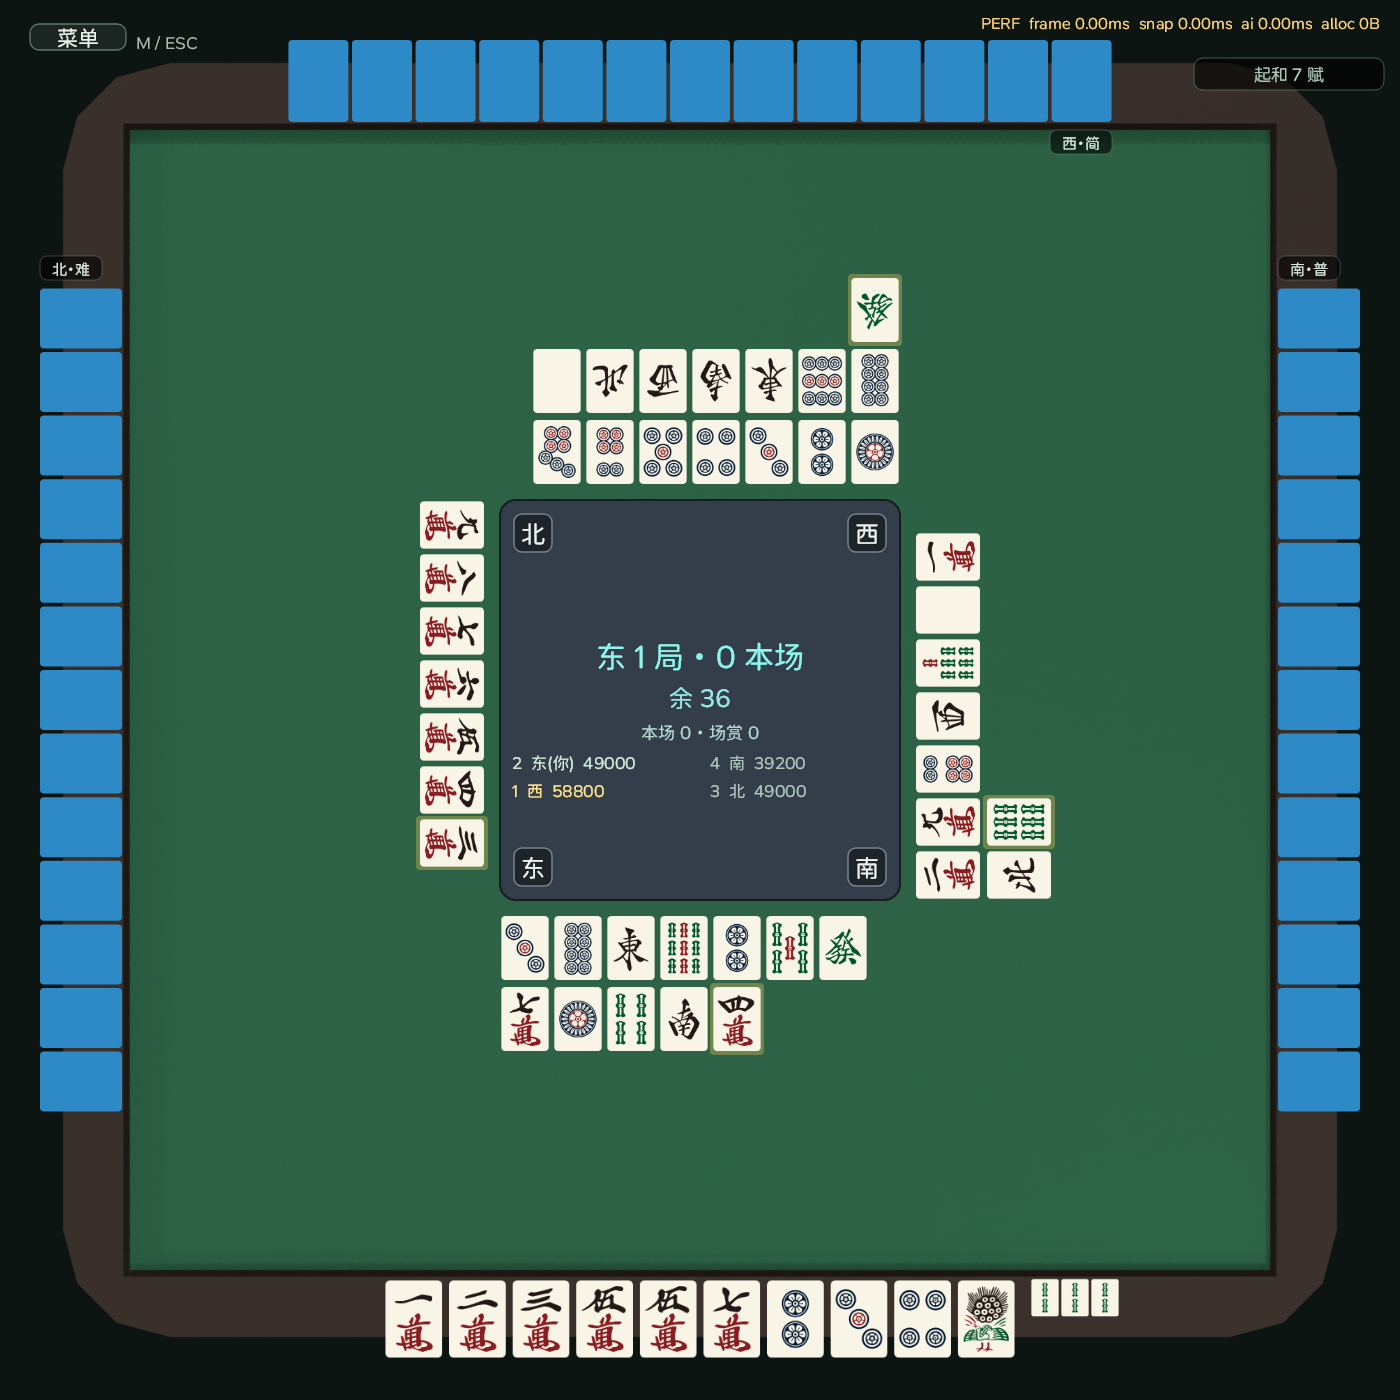
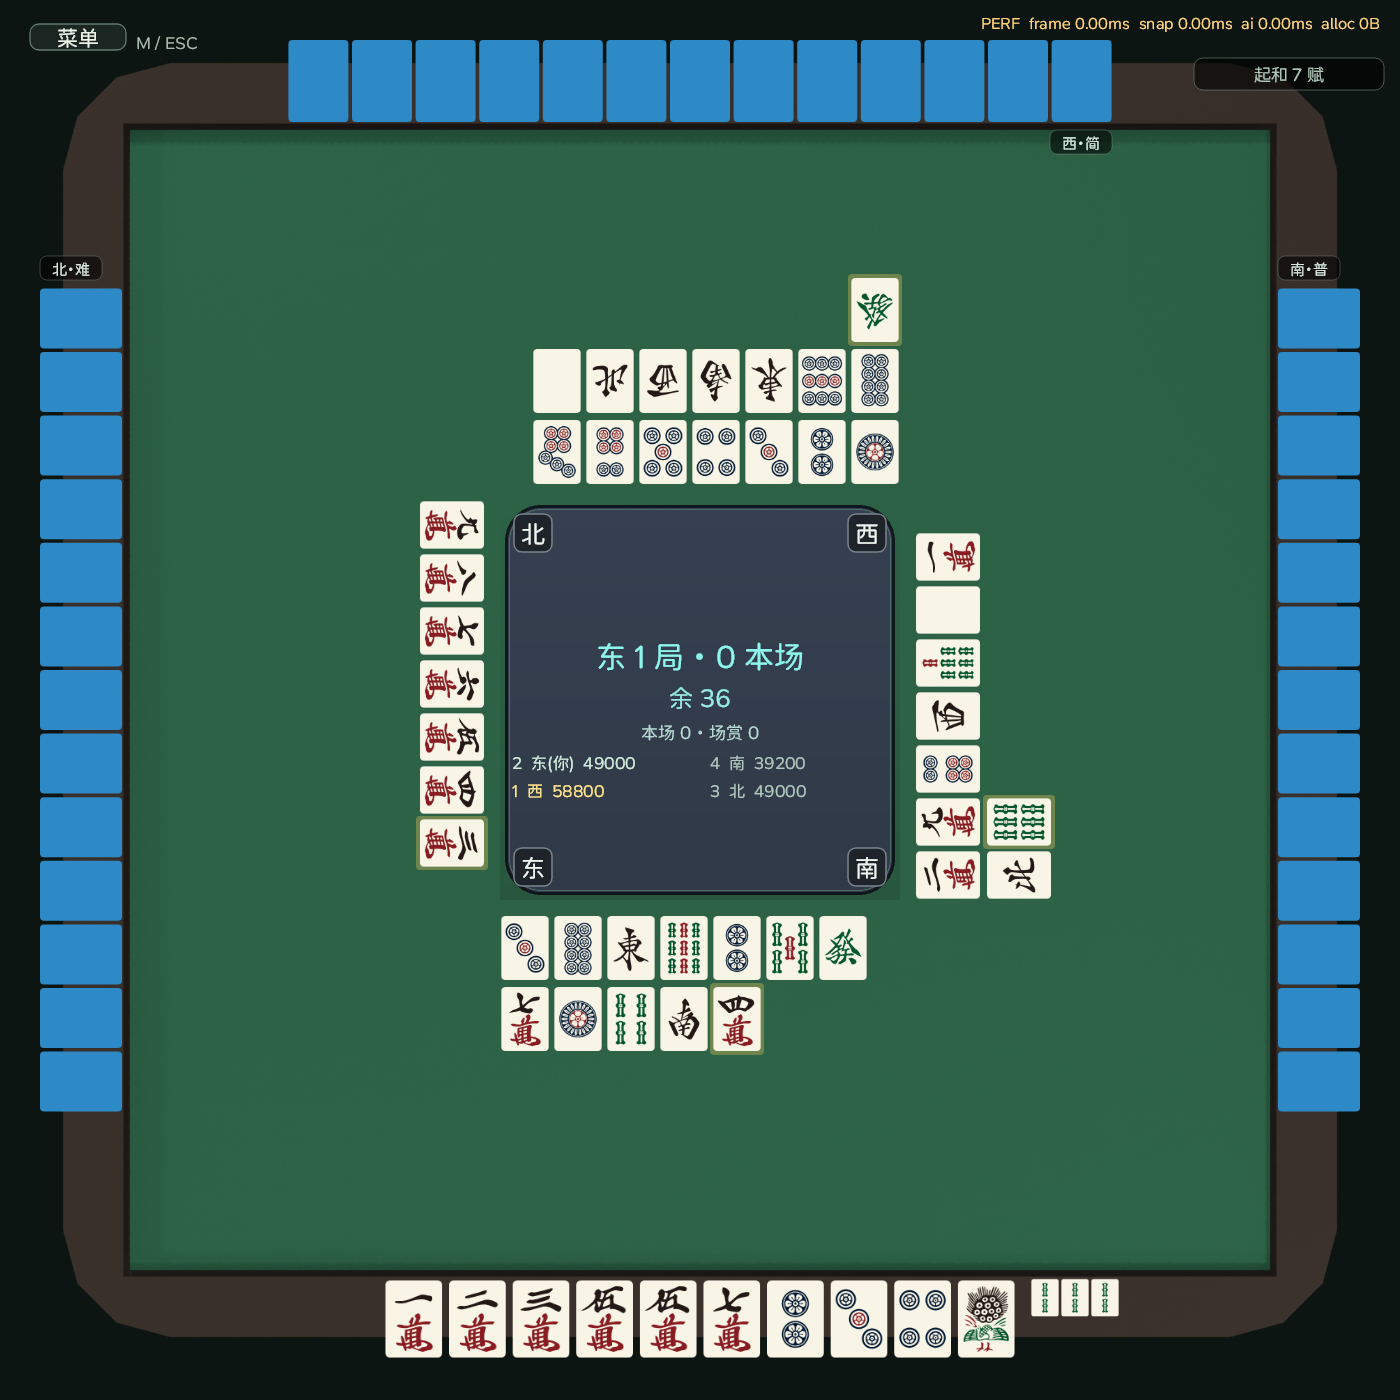
Polish baked table skin and add regression tests
- table + center-plate baked regions, preview updated
- drop shadow/frame regions: CPU bench 4.64 vs 4.93 ms
- TableSkin load/fallback tests; snapshot geometry guard

By DSH

Changed region(s): [[0.3379, 0.3379, 0.645, 0.645]]

diff --git a/tests/Tiisu.App.Tests/TableSkinTests.cs b/tests/Tiisu.App.Tests/TableSkinTests.cs
@@ -1,0 +1,95 @@
+using System;
+using System.IO;
+using System.Linq;
+using Tiisu.App.Table;
+using Xunit;
+
+namespace Tiisu.App.Tests;
+
+public sealed class TableSkinTests
+{
+    private static string RepoRoot()
+    {
+        DirectoryInfo? dir = new DirectoryInfo(AppContext.BaseDirectory);
+        while (dir is not null && !File.Exists(Path.Combine(dir.FullName, "Tiisu.slnx")))
+        {
+            dir = dir.Parent;
+        }
+
+        return dir?.FullName ?? throw new InvalidOperationException("repo root not found");
+    }
+
+    [Fact]
+    public void Blender_skin_manifest_loads_and_maps_regions()
+    {
+        string path = Path.Combine(RepoRoot(), "art", "table", "skin-blender", "skin.json");
+
+        using TableSkin? skin = TableSkin.Load(path, out string? error);
+
+        Assert.Null(error);
+        Assert.NotNull(skin);
+        Assert.True(skin!.IsActive);
+        Assert.True(skin.Has(TableSkinRegion.Table));
+        Assert.True(skin.Has(TableSkinRegion.CenterPlate));
+        Assert.Equal(2, skin.RegionCount);
+
+        Assert.True(skin.TryGetRegionSize(TableSkinRegion.CenterPlate, out float centerW, out float centerH));
+        Assert.Equal(400f, centerW, 1);
+        Assert.Equal(400f, centerH, 1);
+    }
+
+    [Fact]
+    public void Missing_manifest_returns_null_and_error()
+    {
+        using TableSkin? skin = TableSkin.Load(
+            Path.Combine(RepoRoot(), "art", "table", "skin-blender", "no-such-skin.json"),
+            out string? error);
+
+        Assert.Null(skin);
+        Assert.False(string.IsNullOrWhiteSpace(error));
+    }
+
+    [Fact]
+    public void Newer_manifest_version_is_rejected()
+    {
+        string dir = Path.Combine(Path.GetTempPath(), "tiisu-skin-tests", Guid.NewGuid().ToString("N"));
+        Directory.CreateDirectory(dir);
+        string path = Path.Combine(dir, "skin.json");
+        try
+        {
+            File.WriteAllText(path, "{\"version\":999,\"regions\":{\"table\":{\"src\":[0,0,1,1]}}}");
+            using TableSkin? skin = TableSkin.Load(path, out string? error);
+
+            Assert.Null(skin);
+            Assert.False(string.IsNullOrWhiteSpace(error));
+        }
+        finally
+        {
+            try
+            {
+                Directory.Delete(dir, recursive: true);
+            }
+            catch
+            {
+                // 测试清理失败不影响结果。
+            }
+        }
+    }
+
+    [Fact]
+    public void Snapshot_types_have_no_geometry_fields()
+    {
+        string[] forbidden = { "vertex", "triangle", "mesh", "matrix", "transform" };
+        var properties = typeof(TableViewModel).GetProperties()
+            .Concat(typeof(SeatView).GetProperties());
+
+        foreach (var property in properties)
+        {
+            foreach (string word in forbidden)
+            {
+                Assert.DoesNotContain(word, property.Name, StringComparison.OrdinalIgnoreCase);
+                Assert.DoesNotContain(word, property.PropertyType.Name, StringComparison.OrdinalIgnoreCase);
+            }
+        }
+    }
+}

diff --git a/art/table/skin-blender/make_ui_panels.py b/art/table/skin-blender/make_ui_panels.py
@@ -1,0 +1,22 @@
+from PIL import Image, ImageDraw
+import os
+
+out = os.path.dirname(os.path.abspath(__file__))
+
+# 中央信息板底板：2x 交付，400x400 逻辑。
+# 文字、点数、余牌仍由代码逐帧绘制，这里只做底板。
+w = h = 800
+img = Image.new("RGBA", (w, h), (0, 0, 0, 0))
+d = ImageDraw.Draw(img)
+d.rounded_rectangle((10, 10, w - 11, h - 11), radius=72,
+                    fill=(54, 64, 80, 255), outline=(18, 23, 30, 255), width=6)
+d.rounded_rectangle((18, 18, w - 19, h - 19), radius=64,
+                    outline=(105, 120, 138, 120), width=2)
+# 底部轻微压暗，避免整块纯色。
+shade = Image.new("RGBA", (w, h), (0, 0, 0, 0))
+sd = ImageDraw.Draw(shade)
+for y in range(h):
+    sd.line((0, y, w, y), fill=(0, 0, 0, int(28 * (y / (h - 1)))))
+img = Image.alpha_composite(img, shade)
+img.save(os.path.join(out, "center-plate.png"))
+print("center-plate.png written")

diff --git a/art/table/skin-blender/README.md b/art/table/skin-blender/README.md
@@ -8,14 +8,17 @@
 |---|---|
 | `Assets/Table.blend` | 牌桌源文件（木框 + 绿呢），可继续在 Blender 里改 |
 | `make_table_skin.py` | 顶视正交相机渲染 2048×2048 透明底 `table.png` |
-| `table.png` | 皮肤图集：`table` 区域整图 |
-| `skin.json` | 皮肤清单，`scale = 1.5` |
+| `make_ui_panels.py` | 用 Pillow 生成中央板底板（纯 2D） |
+| `table.png` | 桌面整图，`scale = 1.4971` |
+| `center-plate.png` | 中央信息板底板，2× 交付 |
+| `skin.json` | 皮肤清单 |
 | `preview.png` | 接进 `TableSceneSkia` 后的 1400×1400 预览 |
 
 ## 重新生成
 
 ```powershell
 blender --background Assets\Table.blend --python art\table\skin-blender\make_table_skin.py
+python art\table\skin-blender\make_ui_panels.py
 ```
 
 ## 预览 / 接入
@@ -26,12 +29,14 @@ tools\Tiisu.DevTools\bin\Debug\net10.0-windows10.0.19041\Tiisu.DevTools.exe `
   --render-table-png artifacts\3d\table-skin-flat.png --variant flat
 ```
 
-随包启用时，把 `skin.json` 和 `table.png` 放到 `src/Tiisu.App/Assets/ui/`。
+随包启用时，把 `skin.json`、`table.png`、`center-plate.png` 放到
+`src/Tiisu.App/Assets/ui/`。
 
 ## 边界
 
 - 代码仍是 Skia 2D / 软渲染；Blender 只负责离线出图，不引入运行时 3D 引擎。
-- 当前只替换 `table` 区域；中央板、牌河底、按钮仍走程序化绘制，后续可逐块加 `center-plate` / `river-bed` / `button`。
+- 当前替换 `table` / `center-plate`；牌河底暂不做整块深色垫布（空牌河会出现大块深色矩形）。
+- `shadow` / `frame` 整层压边试过，会让 CPU 光栅基准从 4.64ms 升到约 4.9ms；先不随皮启用。
 - 不产出 FBX；需要交换格式时用 glTF 2.0（JSON/二进制，不带脚本），不用 FBX。
 
 By DSH

diff --git a/art/table/README.md b/art/table/README.md
@@ -10,6 +10,7 @@
 | `src/Tiisu.App/Assets/ui/skin.json` | 随包启用的皮肤清单（放这里构建后自动进 exe 旁 `Assets/ui/`） |
 | `src/Tiisu.App/Assets/ui/skin.example.json` | 带注释的清单样例，不参与加载 |
 | `art/table/skin-demo/` | 示例皮：`skin.json` + `skin-atlas.png` + 生成脚本 |
+| `art/table/skin-blender/` | Blender 预热桌面 + 中央板；PNG/skin.json 交付，详见目录内 README |
 | `artifacts/skin-preview/` | 出图与性能对照 |
 
 ## 清单格式
